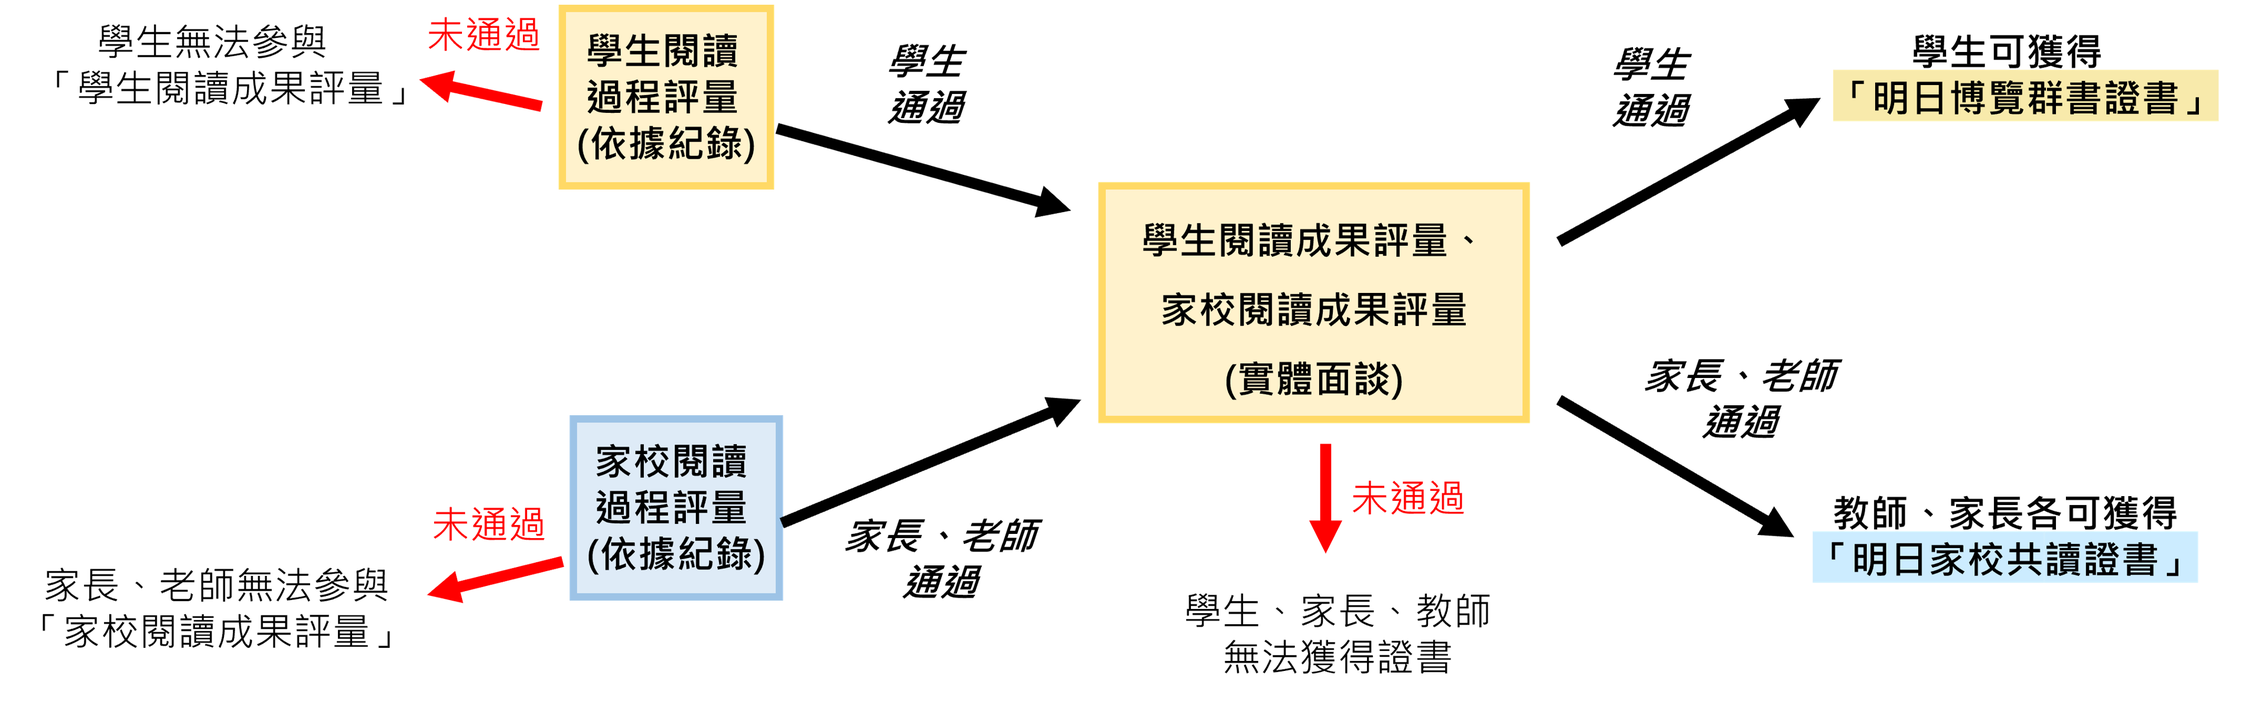
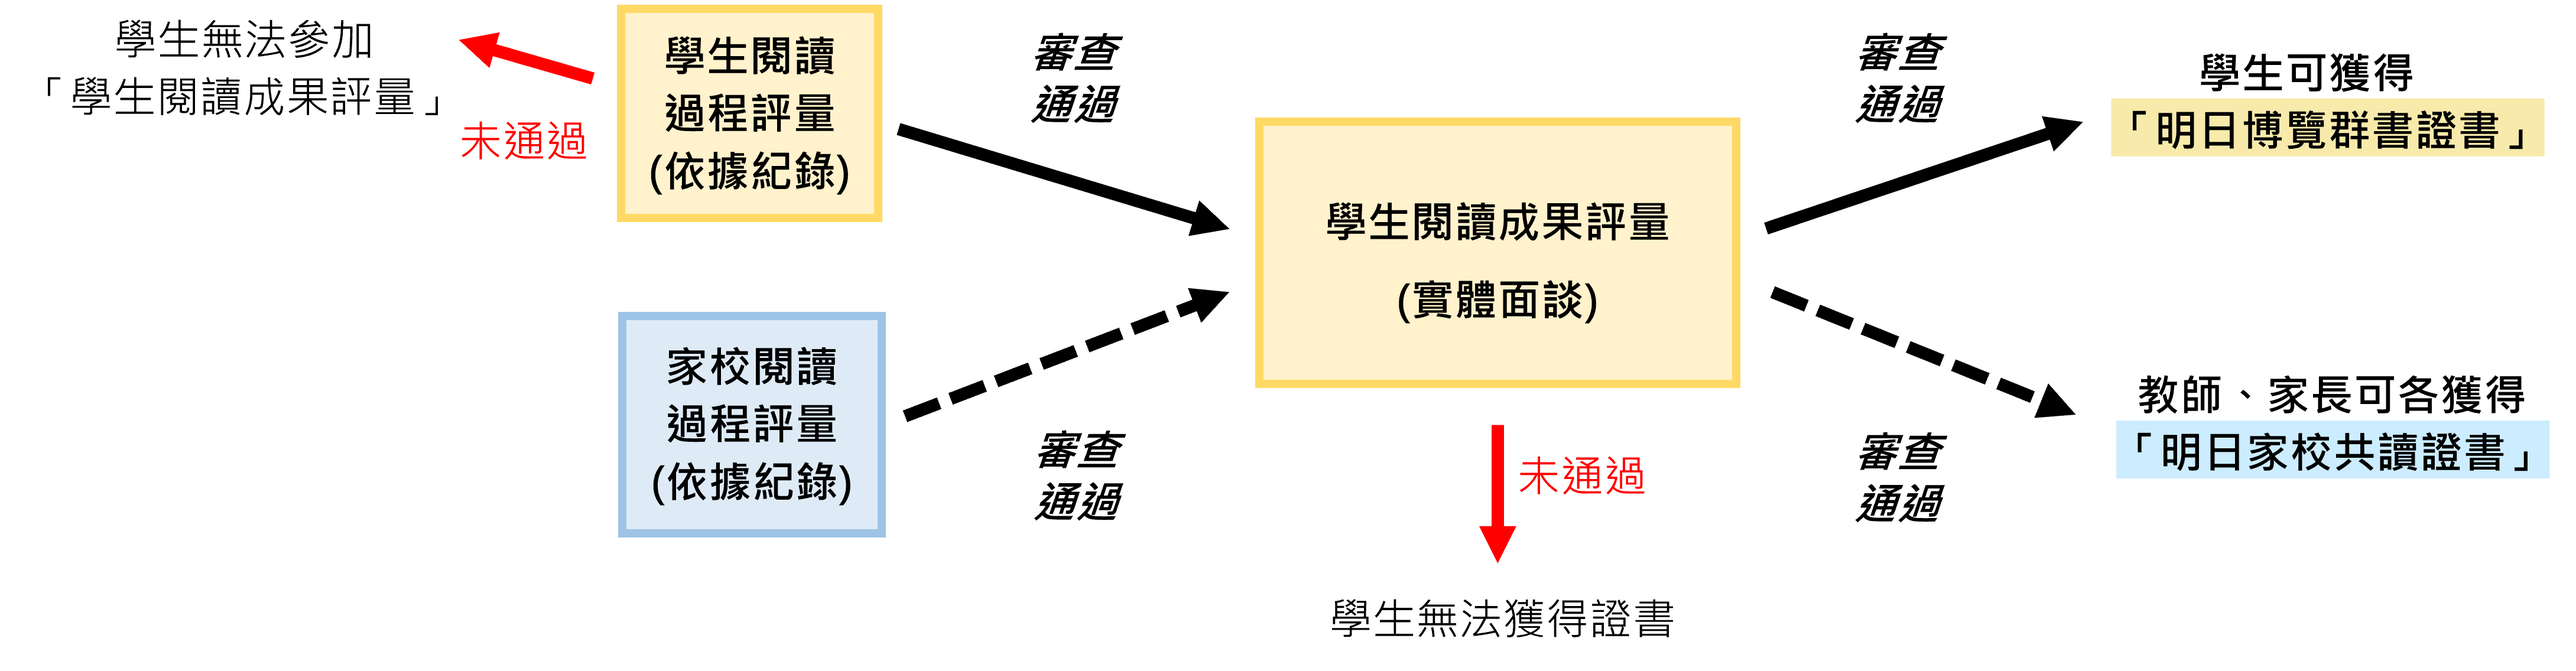
個人認證

diff --git a/2nd_session/student/index.html b/2nd_session/student/index.html
@@ -647,23 +647,18 @@
 
                                 <h5 class="checklist-caption">繳交資料檢核表</h5>
                                 <div class="checklist-wrap">
-                                    <table class="checklist-table  ">
+                                    <table class="checklist-table">
                                         <colgroup>
-                                            <col style="width:6%;">
-                                            <!-- 空白直排欄 -->
-                                            <col style="width:40%;">
-                                            <!-- 必繳資料：← 加大這欄 -->
-                                            <col style="width:18%;">
-                                            <!-- 學生 -->
-                                            <col style="width:18%;">
-                                            <!-- 家長 -->
-                                            <col style="width:18%;">
-                                            <!-- 班級導師 -->
-                                        </colgroup>
+                                            <col style="width:5%;">
+
+                                            <col style="width:30%;">
+
+                                            <col style="width:25%;">
+                                            <col style="width:25%;">
+                                            <col style="width:25%;"> </colgroup>
                                         <thead>
                                             <tr>
                                                 <th></th>
-                                                <!-- 左上角空格，與 Word 版面一致 -->
                                                 <th>必繳資料</th>
                                                 <th>學生</th>
                                                 <th>家長</th>
@@ -671,25 +666,32 @@
                                             </tr>
                                         </thead>
                                         <tbody>
-                                            <!-- 學生閱讀過程階段（直排，跨兩列） -->
                                             <tr>
                                                 <td class="v-rl" rowspan="2">學生閱讀過程階段</td>
-                                                <td><strong>閱讀登記</strong><br><span class="note" style="color:red;">［繳交時間］每月月底</span></td>
+                                                <td style="white-space: nowrap;">
+                                                    <strong>閱讀登記</strong><br>
+                                                    <span class="note" style="color:red;">［繳交時間］每月月底</span>
+                                                </td>
                                                 <td>每月<br>至少10次</td>
                                                 <td>－</td>
                                                 <td>－</td>
                                             </tr>
                                             <tr>
-                                                <td><strong>上傳「自選書」說書影片</strong><br><span class="note" style="color:red;">［繳交時間］每月月底</span></td>
+                                                <td style="white-space: nowrap;">
+                                                    <strong>上傳「自選書」說書影片</strong><br>
+                                                    <span class="note" style="color:red;">［繳交時間］每月月底</span>
+                                                </td>
                                                 <td>每月<br>至少1部</td>
                                                 <td>－</td>
                                                 <td>－</td>
                                             </tr>
 
-                                            <!-- 家校閱讀過程階段（直排，跨三列） -->
                                             <tr>
                                                 <td class="v-rl" rowspan="3">家校閱讀過程階段</td>
-                                                <td><strong>拍攝閱讀照片</strong><br><span class="note" style="color:red;">［繳交時間］每月月底</span></td>
+                                                <td style="white-space: nowrap;">
+                                                    <strong>拍攝閱讀照片</strong><br>
+                                                    <span class="note" style="color:red;">［繳交時間］每月月底</span>
+                                                </td>
                                                 <td>－</td>
                                                 <td>每週至少1張家庭閱讀照片</td>
                                                 <td>
@@ -697,13 +699,19 @@
                                                 </td>
                                             </tr>
                                             <tr>
-                                                <td><strong>填寫家校評語回饋表單</strong><br><span class="note" style="color:red;">［繳交時間］每學期期末</span></td>
+                                                <td style="white-space: nowrap;">
+                                                    <strong>填寫家校評語回饋表單</strong><br>
+                                                    <span class="note" style="color:red;">［繳交時間］每學期期末</span>
+                                                </td>
                                                 <td>－</td>
                                                 <td>每學期1次</td>
                                                 <td>每學期1次</td>
                                             </tr>
                                             <tr>
-                                                <td><strong>討論學生閱讀狀況</strong><br><span class="note" style="color:red;">［繳交時間］每學期期末</span></td>
+                                                <td style="white-space: nowrap;">
+                                                    <strong>討論學生閱讀狀況</strong><br>
+                                                    <span class="note" style="color:red;">［繳交時間］每學期期末</span>
+                                                </td>
                                                 <td>－</td>
                                                 <td>每學期與班級導師討論1次</td>
                                                 <td>每學期與家長討論1次</td>
@@ -965,7 +973,7 @@
                                         <strong>高中級等級：</strong>以高中二年級程度書籍為主，高中一、三年級難度書籍為輔。<br> 本活動所訂定之各等級書目，由專家教師評選，並參考教育部及文化部推薦書單。
                                         </span>
                                         <!--（每兩屆會請專家老師調整書）-->
-                                        <br>參與認證的學生可自行評估閱讀能力，挑選合適的認證級別，並針對該認證級別的規劃及書籍內容進行閱讀活動。<br> 學生可依自身閱讀能力，擇一等級參加。[例]四年級學生評估自身閱讀能力後，可選擇參加四年級等級，或六年級等級，或國中等級認證。
+                                        <br><br>參與認證的學生可自行評估閱讀能力，挑選合適的認證級別，並針對該認證級別的規劃及書籍內容進行閱讀活動。<br> 學生可依自身閱讀能力，擇一等級參加。[例]四年級學生評估自身閱讀能力後，可選擇參加四年級等級，或六年級等級，或國中等級認證。
                                     </p>
                                 </div>
                                 <!-- 書籍種類介紹 -->
@@ -1040,7 +1048,7 @@
                                         <p style="text-indent: 0;"><strong>計分規則：</strong></p>
                                         <p style="text-indent:0;">◆&nbsp<strong>閱讀積分 = </strong>書籍種類積分 + 書籍深度積分
                                             <br>[例]登記 1 本深度為「橋梁書」的「核心書」= 25 + 5，可獲得 30 分。
-                                            <br>[例]登記1本深度為「中階文字書」的「選讀書」，可獲得15 + 20 = 35分。</p>
+                                            <br>[例]登記 1 本深度為「中階文字書」的「選讀書」，可獲得15 + 20 = 35分。</p>
                                         <p style="text-indent:0;"> ◆&nbsp<strong>說書積分 = </strong>每上傳 1 部「自選書」說書影片可獲得 25 分，每月上傳至多 2 部。</p>
                                         <p style="text-indent:0;"> ◆&nbsp<strong>認證總積分 = </strong>閱讀總積分 +說書總積分</p>
                                         <p style="text-indent: 0;"><strong>書籍種類積分：</strong></p>
